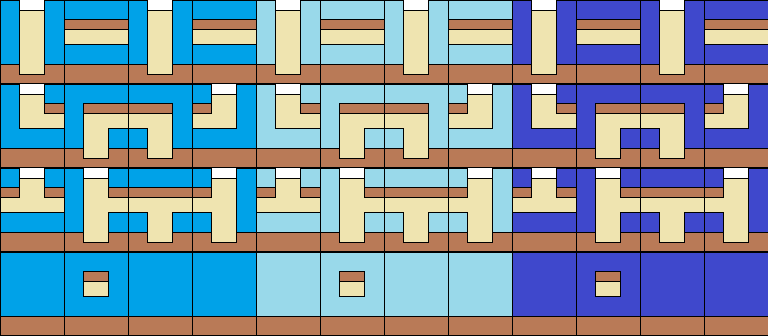
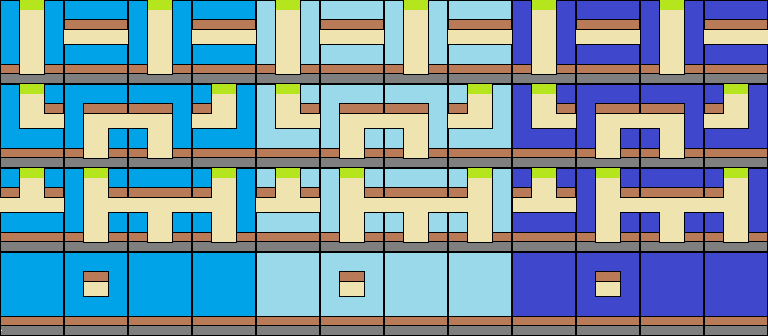
Whoooops!
Correction d'un bug. (jeu qui plante lorsque le joueur pousse une ligne
ou une colone de murs sur un labyrinthe de largeur et hauteur
différentes)
Amélioration (?) graphique des murs.

diff --git a/src/com/labyrinth/game/maze/Maze.java b/src/com/labyrinth/game/maze/Maze.java
@@ -219,15 +219,15 @@ public class Maze {
 							this.walls[row][i].setCoordinates(row, i);
 						}
 					}else{
-						if(nbr_of_line - 1 - i > 0){
-							this.walls[row][nbr_of_line - 1 - i] = this.walls[row][nbr_of_line - 2 - i];
-							this.walls[row][nbr_of_line - 1 - i].setCoordinates(row, nbr_of_line - 1 - i);
+						if(this.nbr_of_line - 1 - i > 0){
+							this.walls[row][this.nbr_of_line - 1 - i] = this.walls[row][this.nbr_of_line - 2 - i];
+							this.walls[row][this.nbr_of_line - 1 - i].setCoordinates(row, this.nbr_of_line - 1 - i);
 						}
 					}
 				}
 				if(direction == INSERT_FROM_BOTTOM){
 					this.walls[row][this.nbr_of_line - 1] = this.additional_wall;
-					this.walls[row][nbr_of_line - 1].setCoordinates(row, nbr_of_line - 1);
+					this.walls[row][this.nbr_of_line - 1].setCoordinates(row, this.nbr_of_line - 1);
 				}else{
 					this.walls[row][0] = this.additional_wall;
 					this.walls[row][0].setCoordinates(row, 0);
@@ -248,15 +248,15 @@ public class Maze {
 							this.walls[i][line].setCoordinates(i, line);
 						}
 					}else{
-						if(nbr_of_row - 1 - i > 0){
-							this.walls[nbr_of_row - 1 - i][line] = this.walls[nbr_of_row - 2 - i][line];
-							this.walls[nbr_of_row - 1 - i][line].setCoordinates(nbr_of_row - 1 - i, line);
+						if(this.nbr_of_row - 1 - i > 0){
+							this.walls[this.nbr_of_row - 1 - i][line] = this.walls[this.nbr_of_row - 2 - i][line];
+							this.walls[this.nbr_of_row - 1 - i][line].setCoordinates(this.nbr_of_row - 1 - i, line);
 						}
 					}
 				}
 				if(direction == INSERT_FROM_RIGHT){
-					this.walls[this.nbr_of_line - 1][line] = this.additional_wall;
-					this.walls[this.nbr_of_line - 1][line].setCoordinates(this.nbr_of_line - 1, line);
+					this.walls[this.nbr_of_row - 1][line] = this.additional_wall;
+					this.walls[this.nbr_of_row - 1][line].setCoordinates(this.nbr_of_line - 1, line);
 				}else{
 					this.walls[0][line] = this.additional_wall;
 					this.walls[0][line].setCoordinates(0, line);
@@ -271,7 +271,7 @@ public class Maze {
 		
 		this.graphCreation();
 		
-		this.additional_wall.setCoordinates(nbr_of_row, 0);
+		this.additional_wall.setCoordinates(this.nbr_of_row, 0);
 	}
 
 	public Wall getWall(int x, int y){

diff --git a/src/com/labyrinth/game/GameBoard.java b/src/com/labyrinth/game/GameBoard.java
@@ -78,29 +78,34 @@ public class GameBoard extends BasicGameState implements PlayerEventListener{
 		this.origin.setWidth(wall_texture.getTileWidth());
 		this.players = new ArrayList<Player>();		
 		
-		this.maze = new Maze(7, 7, this.origin, wall_texture);
+		this.maze = new Maze(9, 18, this.origin, wall_texture);
 		
 		this.input = arg0.getInput();
 		
 		this.clearPlayerList();
 
+		this.players.add(this.createPlayer(Player.HUMAN, 0, player_texture, 0));
+		this.players.add(this.createPlayer(Player.AI, 1, player_texture, 0));
+		
 //		this.players.add(this.createPlayer(Player.AI, 0, player_texture, 0));
 //		this.players.add(this.createPlayer(Player.AI, 1, player_texture, 0));
 //		this.players.add(this.createPlayer(Player.AI, 2, player_texture, 0));
 //		this.players.add(this.createPlayer(Player.AI, 3, player_texture, 0));
 
-		this.players.add(this.createPlayer(Player.HUMAN, 0, player_texture, 0));
-		this.players.add(this.createPlayer(Player.HUMAN, 1, player_texture, 0));
-		this.players.add(this.createPlayer(Player.HUMAN, 2, player_texture, 0));
-		this.players.add(this.createPlayer(Player.HUMAN, 3, player_texture, 0));
+//		this.players.add(this.createPlayer(Player.HUMAN, 0, player_texture, 0));
+//		this.players.add(this.createPlayer(Player.HUMAN, 1, player_texture, 0));
+//		this.players.add(this.createPlayer(Player.HUMAN, 2, player_texture, 0));
+//		this.players.add(this.createPlayer(Player.HUMAN, 3, player_texture, 0));
 
 		this.current_player = 0;
 		
 		int mx = this.maze.getNumberOfCollumn();
 		int my = this.maze.getNumberOfLine();
 		
+		int number_of_objective = this.maze.getNumberOfCollumn() * this.maze.getNumberOfLine() / 8 ;
+		
 		for(Player p: this.players){
-			for(int i = 0; i < 5; i++){
+			for(int i = 0; i < number_of_objective; i++){
 				Wall w;
 				boolean wall_already_used;
 				
